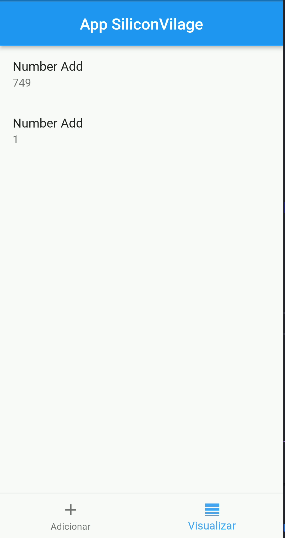
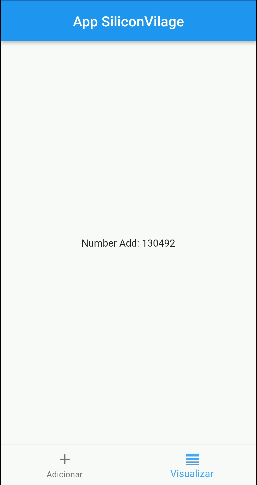
ajustes pages add_widget e view_widget

diff --git a/lib/widgets/view_widget.dart b/lib/widgets/view_widget.dart
@@ -12,7 +12,7 @@ class ViewWidget extends StatefulWidget {
 
 class _ViewWidgetState extends State<ViewWidget> {
   final Stream<QuerySnapshot> _usersStream =
-      FirebaseFirestore.instance.collection('app').snapshots();
+      FirebaseFirestore.instance.collection('app-silicon-vilage').snapshots();
 
   @override
   Widget build(BuildContext context) {
@@ -28,13 +28,15 @@ class _ViewWidgetState extends State<ViewWidget> {
         }
 
         return ListView(
+          shrinkWrap: true,
           children: snapshot.data!.docs.map((DocumentSnapshot document) {
             Map<String, dynamic> data =
                 document.data()! as Map<String, dynamic>;
-            return ListTile(
-              title: Text("Number Add "),
-              subtitle: Text(data["number"].toString()),
-            );
+            return Align(
+                alignment: Alignment.center,
+                child: Text(
+                  'Number Add: ' + data["number"].toString(),
+                ));
           }).toList(),
         );
       },

diff --git a/lib/widgets/add_widget.dart b/lib/widgets/add_widget.dart
@@ -15,7 +15,8 @@ class AddWidget extends StatefulWidget {
 class _AddWidgetState extends State<AddWidget> {
   TextEditingController _textEditingController = TextEditingController();
 
-  CollectionReference number = FirebaseFirestore.instance.collection('app');
+  CollectionReference number =
+      FirebaseFirestore.instance.collection('app-silicon-vilage');
 
   var value;
 
@@ -23,7 +24,8 @@ class _AddWidgetState extends State<AddWidget> {
     value = _textEditingController.text;
     _textEditingController.clear();
     return number
-        .add({'number': value})
+        .doc("TSG6nOz3ybiyGZtwcwMx")
+        .set({'number': value})
         .then((value) => print("Number Add"))
         .catchError((error) => print("Failed add Number $error"));
   }
